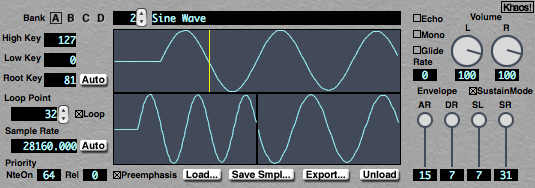
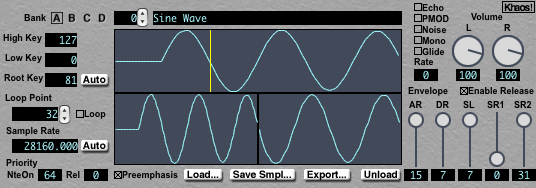
ドキュメントの更新

diff --git a/dist/macosx/how_to_use_c700.html b/dist/macosx/how_to_use_c700.html
@@ -221,9 +221,12 @@
     <dd>波形発音時の音量を設定します。</dd>
     <dd>マイナスに設定すると逆相になります</dd>
 
-    <dt>AR,DR,SL,SR</dt>
+    <dt>AR,DR,SL,SR1,SR2</dt>
     <dd>ハードウェアエンベロープの設定をします。</dd>
-    <dd>ノートオン時にSR=0に設定され、ノートオフ時に、ここで設定したSR値に切り替わります。</dd>
+    <dd>キーオン中はSR1のSRが設定され、キーオフ後にSR2の値に切り替わります。</dd>
+
+    <dt>Enable Release</dt>
+    <dd>offに設定した場合、ノートオフ時にSR2に移行せず、即座にキーオフします。</dd>
 
     <dt>Khaos!</dt>
     <dd>ランダムな波形を生成します。</dd>
@@ -352,6 +355,11 @@
 <h2 id="">更新履歴</h2>
 
 <ul>
+<li><p>2017/04/22</p>
+
+<ul>
+<li>キーオン中と、キーオフ後のSR値を別々に設定可能に</li>
+</ul></li>
 <li><p>2017/03/19</p>
 
 <ul>

diff --git a/README.md b/README.md
@@ -186,9 +186,12 @@
 	<dd>波形発音時の音量を設定します。</dd>
 	<dd>マイナスに設定すると逆相になります</dd>
     
-	<dt>AR,DR,SL,SR</dt>
+	<dt>AR,DR,SL,SR1,SR2</dt>
 	<dd>ハードウェアエンベロープの設定をします。</dd>
-	<dd>ノートオン時にSR=0に設定され、ノートオフ時に、ここで設定したSR値に切り替わります。</dd>
+	<dd>キーオン中はSR1のSRが設定され、キーオフ後にSR2の値に切り替わります。</dd>
+	
+	<dt>Enable Release</dt>
+	<dd>offに設定した場合、ノートオフ時にSR2に移行せず、即座にキーオフします。</dd>
     
 	<dt>Khaos!</dt>
 	<dd>ランダムな波形を生成します。</dd>
@@ -313,6 +316,9 @@
 * なるべくチューナーなどを使用して正確にピッチを合わせた方が綺麗なループになる。
 
 ## 更新履歴
+* 2017/04/22
+	* キーオン中と、キーオフ後のSR値を別々に設定可能に
+
 * 2017/03/19
     * spc,smc形式での演奏記録の書き出しに対応
 	* チャンネル確保方法の設定項目の追加
